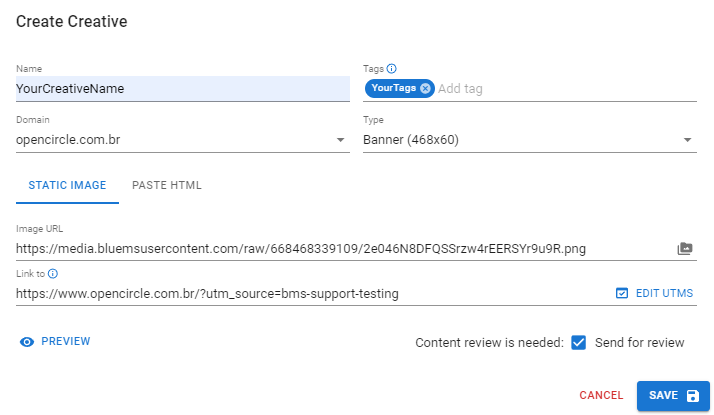
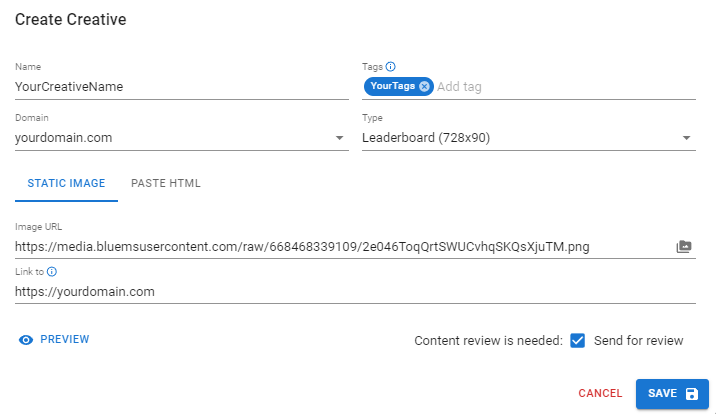
GITBOOK-132: Remoção Edit UTMS temp

diff --git a/src/gitbook/root/product-documentation/ad-serving/creatives.md b/src/gitbook/root/product-documentation/ad-serving/creatives.md
@@ -30,7 +30,7 @@ To start creating your creative, click on <img src="../../.gitbook/assets/image 
 
 Fill in the details:
 
-<figure><img src="../../.gitbook/assets/image (1).png" alt=""><figcaption><p>Creating a Creative</p></figcaption></figure>
+<figure><img src="../../.gitbook/assets/image.png" alt=""><figcaption><p>Creating a Creative</p></figcaption></figure>
 
 * Name - how you want to call this creative;
 * Tags - up to 5 labels that can be used to aid identification and searching;
@@ -45,38 +45,6 @@ To design your creative, you have two options:
   * The image you wish to display. You can either paste a URL for an image you are already hosting or use the integration with the BMS Media Library to find or upload a new one.
     * Note: The BMS Media Library supports uploads of static images or GIFs as long as the file size is 2 MB or less.
   * The link you wish to open when the image is clicked. This can be any HTTPS URL with query strings such as UTMs. Our standard click tracker will be added to show metrics for the creative.
-
-### Editing UTMs
-
-When inserting the link to the website designated for your creative, it is important to set your UTM tags. If you do not have your tags pre-created, you can use the <img src="../../.gitbook/assets/image (2).png" alt="Edit UTMs" data-size="line"> feature to make adjustments to your URL and check a preview in real time to validate your URL. This button can be found in the space named "Link to." After clicking the button, the UTM tag configuration screen will pop up.
-
-<figure><img src="../../.gitbook/assets/image (38).png" alt=""><figcaption><p>UTM Editor</p></figcaption></figure>
-
-You will be presented with your current website URL and then each UTM tag and its explanation to help you complete them.
-
-{% hint style="warning" %}
-If no URL has been informed, you will **need** to insert the corresponding **URL** to your website's domain, if no URL is presented it will not be possible to configure your UTM's.
-{% endhint %}
-
-When editing UTMs, every time you change a tag, it will automatically update your Link URL, presenting you with the current version of your tags.
-
-*   **UTM Source:** Identifies the source of the traffic. In this case, you would use "BMS" as your source.&#x20;
-
-    * **Example - "BMS"**: To know that the creative has come from the BMS platform.
-
-    **Note:** You can add any kind of source to your UTM, it is up to you to decide with one is better.
-* **UTM Medium:** You can use a campaign medium to identify the medium a visitor found your URL on, such as social media, QR code, cost-per-click (CPC), affiliates, organic/paid ads, newsletters, etc.&#x20;
-  * **Example - "Social":** Since the campaign will target social media, we can set the medium as Social.
-* **UTM Campaign:** As the name suggests, it is used to give a name to your campaign, like "Black Friday Sale," "Thanksgiving Sale," "Launch Campaign," etc.&#x20;
-  * **Example - "YourCampaign":** Here you can simply state the name of your campaign, to better identify the campaign that the creative is being used.
-* **UTM Content:** Campaign content is useful when you are A/B testing ads. It differentiates identical links that direct to the same URL. For example, when you have two links in one email, this parameter distinguishes between them.
-  * **Example - "HomePage":** The content that the user will be presented to, if we are running A/B Tests on different pages, this is a way of configuring the content UTM Tag.
-* **UTM Term:** Identifies paid keywords in ad campaigns (mainly used for paid search campaigns).
-  * **Example - "Sport Shoes":** This identifies the paid search campaign in which the keywords used for the paid search were Sport Shoes.
-
-Once you configure all of your UTM Tags, hit the <img src="../../.gitbook/assets/image (5).png" alt="Save" data-size="line"> button, and your tags will be configured accordingly.
-
-<figure><img src="../../.gitbook/assets/image (6).png" alt=""><figcaption><p>UTM Tags Configured</p></figcaption></figure>
 
 ### Paste HTML
 

diff --git a/src/gitbook/root/product-documentation/demand-side-platform-dsp/check-url-classification.md b/src/gitbook/root/product-documentation/demand-side-platform-dsp/check-url-classification.md
@@ -24,7 +24,7 @@ To access our Check URL Classification tool, check the DSP menu.
 
 When you need to confirm a domain's classification, simply enter the URL in the provided field and click on <img src="../../.gitbook/assets/image (4) (5).png" alt="Check URL" data-size="line">.
 
-<figure><img src="../../.gitbook/assets/image (1) (6).png" alt=""><figcaption><p>URL Classified</p></figcaption></figure>
+<figure><img src="../../.gitbook/assets/image (1) (6) (1).png" alt=""><figcaption><p>URL Classified</p></figcaption></figure>
 
 A list of classifications for the URL will be displayed. If you disagree with the given classification, you can click on <img src="../../.gitbook/assets/image (5) (5).png" alt="Suggest New Classification" data-size="line"> to have BMS's team review the URL for the correct classification if necessary.
 

diff --git a/src/gitbook/root/product-documentation/ad-server/ads/README.md b/src/gitbook/root/product-documentation/ad-server/ads/README.md
@@ -33,8 +33,6 @@ To create ads, click on <img src="../../../.gitbook/assets/image (203).png" alt=
 
 On the Select Assets Tab, you will need to fulfill a domain in which your creatives will be representing, you can choose between creating new creatives or using existing creatives.
 
-To configure your UTM Tags, check [here](../../ad-serving/creatives.md#edit-utms) for more information.
-
 ### Creating New Creatives
 
 When creating new creatives through our ads tab, you can click on <img src="../../../.gitbook/assets/image (193).png" alt="Add Images" data-size="line"> to upload images.  You can use existing images from your media library, upload new images directly from your computer, or insert your Web Address (URL).

diff --git a/src/gitbook/root/solutions/data-management-through-webhook.md b/src/gitbook/root/solutions/data-management-through-webhook.md
@@ -35,7 +35,7 @@ Go to our Monitoring tab and click on **Event Pipes**.
 
 <div align="center">
 
-<figure><img src="../.gitbook/assets/image (1) (6) (1).png" alt=""><figcaption><p>Monitoring Tab</p></figcaption></figure>
+<figure><img src="../.gitbook/assets/image (1) (6) (1) (1).png" alt=""><figcaption><p>Monitoring Tab</p></figcaption></figure>
 
 </div>
 
